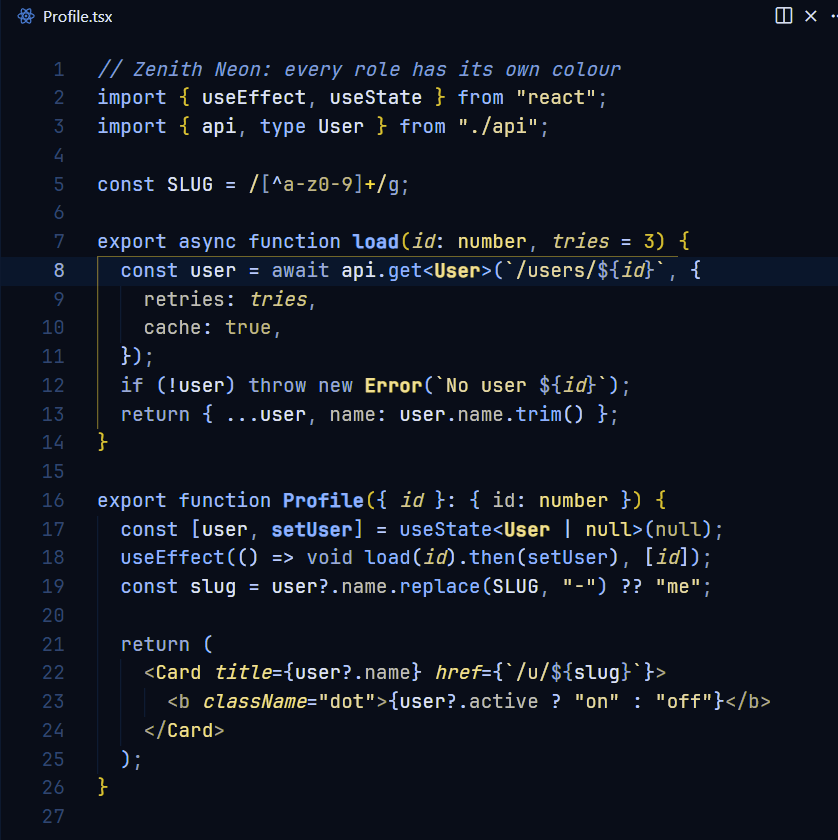
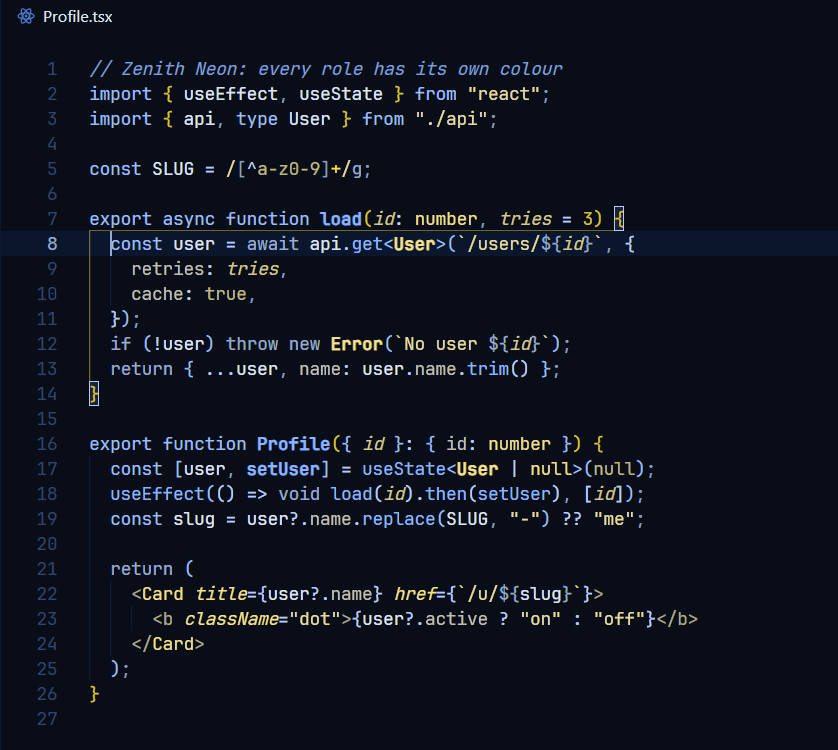
1.0.1: sticky scroll styling, revised recommended settings, new screenshots

diff --git a/README.md b/README.md
@@ -55,14 +55,17 @@ Works in VS Code, Cursor, VSCodium and other editors compatible with VS Code.
 ```jsonc
 {
   "editor.fontFamily": "'JetBrains Mono', Consolas, monospace",
-  "editor.fontSize": 15,
-  "editor.lineHeight": 1.5,
-  "editor.letterSpacing": 0.3,
-  "editor.semanticHighlighting.enabled": true
+  "editor.fontSize": 14,
+  "editor.lineHeight": 1.4,
+  "editor.letterSpacing": 0,
+  "editor.semanticHighlighting.enabled": true,
+  "editor.bracketPairColorization.enabled": true,
+  "editor.guides.bracketPairs": "active",
+  "editor.stickyScroll.enabled": true
 }
 ```
 
-The screenshots use exactly these settings with [JetBrains Mono](https://www.jetbrains.com/lp/mono/). A line height of 1.5 is the spacing WCAG 1.4.12 asks text to support, and slightly wider letter spacing has been shown to help reading, especially for readers with dyslexia (Zorzi et al., 2012).
+The screenshots use exactly these settings with [JetBrains Mono](https://www.jetbrains.com/lp/mono/). Keep `editor.letterSpacing` at `0`: fractional values make selection boxes and the cursor drift away from the text on Windows at 125 % display scaling. Sticky scroll pins the enclosing function or block to the top of the editor, and the theme styles it so the current scope is always visible.
 
 ## Research basis
 
@@ -89,7 +92,6 @@ Zenith Neon is built on what studies actually show, including where they disagre
 - Piepenbrock, C., Mayr, S., & Buchner, A. (2014). Smaller pupil size and better proofreading performance with positive than with negative polarity displays. *Ergonomics*, 57(11). https://doi.org/10.1080/00140139.2014.948496
 - Sarkar, A. (2015). The impact of syntax colouring on program comprehension. *PPIG 2015*. https://ppig.org/files/2015-PPIG-26th-Sarkar1.pdf
 - Steele, K. M. (2014). Failure to replicate the Mehta and Zhu (2009) color-priming effect on anagram solution times. *Psychonomic Bulletin & Review*, 21. https://doi.org/10.3758/s13423-013-0548-3
-- Zorzi, M., et al. (2012). Extra-large letter spacing improves reading in dyslexia. *PNAS*, 109(28). https://doi.org/10.1073/pnas.1205566109
 - W3C (2023). Web Content Accessibility Guidelines 2.2, Success Criterion 1.4.6 Contrast (Enhanced). https://www.w3.org/TR/WCAG22/#contrast-enhanced
 
 ## License

diff --git a/CHANGELOG.md b/CHANGELOG.md
@@ -1,5 +1,11 @@
 # Changelog
 
+## 1.0.1
+
+- Styled sticky scroll (background, border and hover) so the pinned scope header stands apart from the code.
+- Recommended settings: font size 14, line height 1.4, letter spacing 0. Fractional letter spacing caused selection and cursor drift on Windows at 125 % scaling.
+- New screenshots taken with these settings.
+
 ## 1.0.0
 
 - First release.
